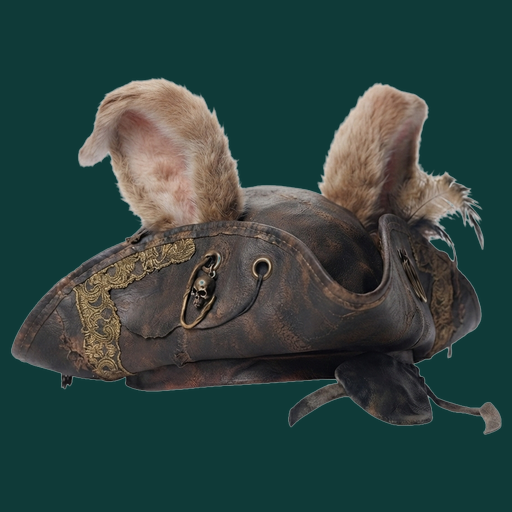
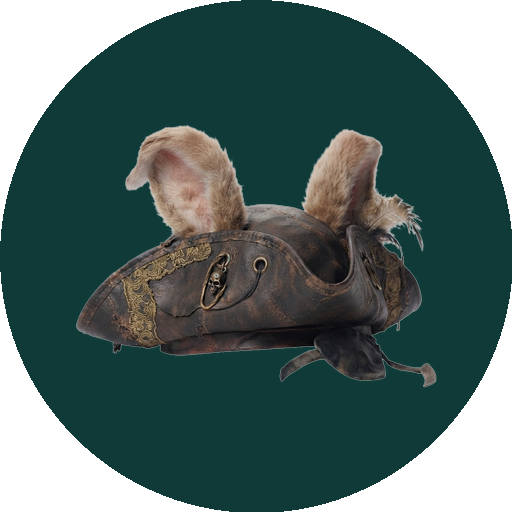
Reduce onboarding friction and clutter, add sail-era theming
- Auto-advance onboarding after picking an avatar instead of requiring
  a separate Continue tap; drop the redundant Male/Female labels
- Always land on the Logbook on a fresh app open (fixes reopening
  sometimes landing on the Add Habit modal, since state.screen was
  being persisted verbatim from the last session)
- Rewards screen now only ever shows the single next locked reward
  instead of the whole future chain, so a new user isn't greeted with
  a wall of "Monthly & Once-off Tasks" / "Bucket List Buccaneer" cards
  before they're anywhere close to relevant
- Re-theme the habit emoji picker to island/pirate/golden-age-of-sail
  icons (dropped the modern-ocean-liner emoji)
- Custom pirate-chest SVG icon for the Rewards tab (no chest emoji
  exists in Unicode)
- Circular app icon (icon-192/512) instead of square, to match how
  mobile home screens actually render installed PWA icons; documented
  as the pwa-install agent's new default for future apps

diff --git a/index.html b/index.html
@@ -13,7 +13,7 @@
      this tag or index_template.html. Recompute (sha256 of icon-192.png,
      first 8 hex chars) and bump this whenever icon-192.png's bytes change,
      or iPhone installs will keep showing a stale icon after an update. -->
-<link rel="apple-touch-icon" href="./icon-192.png?v=b5dea59f">
+<link rel="apple-touch-icon" href="./icon-192.png?v=8281ca5c">
 <meta name="theme-color" content="#0E3634">
 <meta name="apple-mobile-web-app-capable" content="yes">
 <meta name="apple-mobile-web-app-status-bar-style" content="black-translucent">
@@ -119,7 +119,6 @@ img{max-width:100%; display:block;}
 }
 .avatar-option img{width:128px; height:128px; border-radius:50%;}
 .avatar-option.selected{border-color:var(--gold); transform:translateY(-4px);}
-.avatar-option-label{color:var(--parchment-edge); font-size:.8rem; margin-top:6px; text-transform:uppercase; letter-spacing:.1em;}
 
 .field{width:100%; max-width:340px; text-align:left; margin:0 auto 16px;}
 .field label{display:block; color:var(--parchment-edge); font-size:.78rem; text-transform:uppercase; letter-spacing:.1em; margin-bottom:6px;}
@@ -382,7 +381,7 @@ img{max-width:100%; display:block;}
      never from wireEvents() (which re-runs on every render()). -->
 <nav class="bottombar hidden" id="bottombar">
   <button class="bottom-tab" data-nav="logbook"><span class="bt-icon">&#128214;</span><span class="bt-label">Logbook</span></button>
-  <button class="bottom-tab" data-nav="rewards"><span class="bt-icon">&#127942;</span><span class="bt-label">Rewards</span></button>
+  <button class="bottom-tab" data-nav="rewards"><span class="bt-icon"><svg viewBox="0 0 24 24" width="1.15em" height="1.15em" style="vertical-align:-2px" aria-hidden="true"><path d="M3 11 C3 6 6 4 12 4 C18 4 21 6 21 11 Z" fill="#6b4526" stroke="#3e2714" stroke-width="0.8"/><rect x="3" y="11" width="18" height="8" rx="1.5" fill="#6b4526" stroke="#3e2714" stroke-width="0.8"/><rect x="6.4" y="4" width="1.7" height="15" fill="#c6992f"/><rect x="15.9" y="4" width="1.7" height="15" fill="#c6992f"/><rect x="3" y="10.4" width="18" height="1.4" fill="#c6992f"/><rect x="10.1" y="9.2" width="3.8" height="4.4" rx="1" fill="#c6992f" stroke="#3e2714" stroke-width="0.5"/></svg></span><span class="bt-label">Rewards</span></button>
   <button class="bottom-tab" data-nav="profile-modal"><span class="bt-icon">&#128100;</span><span class="bt-label">Profile</span></button>
   <button class="bottom-tab" data-nav="backup"><span class="bt-icon">&#128190;</span><span class="bt-label">Backup</span></button>
 </nav>
@@ -405,7 +404,7 @@ var STORAGE_KEY = "rhabbits_state_v1";
 // confirmed against what was actually deployed. Distinct from any
 // data-schema/localStorage version (this app has none yet).
 var APP_VERSION = "1.0.0";
-var EMOJI_CHOICES = ["🌱","💧","🏃","🧘","📚","🛌","🦷","🥗","🧹","✍","🙏","🎯","🧭","⚓","🦜"];
+var EMOJI_CHOICES = ["🌱","🌴","☀","🌊","🥥","🥕","⛵","🏴☠","🧭","⚓","🦜","🐚","🌙","🗺","🏝"];
 
 var REWARDS = [
   {
@@ -530,6 +529,11 @@ function load(){
 function save(){ localStorage.setItem(STORAGE_KEY, JSON.stringify(state)); }
 
 var state = load();
+// Every fresh app open (icon tap, browser relaunch) lands on the Logbook --
+// that's the default view -- regardless of whatever screen/modal was open
+// when the user last left. Mid-session bottom-nav taps to Rewards/Profile
+// still work as normal; this only resets the *boot* screen.
+state.screen = "logbook";
 
 function evaluateRewards(){
   if(!state.onboarded) return;
@@ -574,16 +578,14 @@ function renderOnboarding(){
     );
   }
   if(step===1){
-    var m = state.avatar==="male", f = state.avatar==="female";
     return (
       '<div class="onb-screen">' +
         '<h2 style="color:var(--parchment-hi)">Choose your rHabbit</h2>' +
-        '<p class="onb-copy">This becomes your castaway — and your icon in the app.</p>' +
+        '<p class="onb-copy">This becomes your castaway — and your icon in the app. (You can switch later in Profile.)</p>' +
         '<div class="avatar-choice">' +
-          '<div><button class="avatar-option '+(m?'selected':'')+'" data-action="pick-avatar" data-gender="male"><img src="'+ASSET.avatar_male+'" alt="Male rHabbit"></button><div class="avatar-option-label">Male</div></div>' +
-          '<div><button class="avatar-option '+(f?'selected':'')+'" data-action="pick-avatar" data-gender="female"><img src="'+ASSET.avatar_female+'" alt="Female rHabbit"></button><div class="avatar-option-label">Female</div></div>' +
+          '<button class="avatar-option" data-action="pick-avatar" data-gender="male"><img src="'+ASSET.avatar_male+'" alt="Male rHabbit"></button>' +
+          '<button class="avatar-option" data-action="pick-avatar" data-gender="female"><img src="'+ASSET.avatar_female+'" alt="Female rHabbit"></button>' +
         '</div>' +
-        '<button class="btn mt" data-action="onb-next" '+(state.avatar?'':'disabled')+'>Continue</button>' +
       '</div>'
     );
   }
@@ -751,7 +753,14 @@ function renderRewardsScreen(){
   html += '<h2 style="color:var(--parchment-hi); margin-bottom:4px;">Your Rewards</h2>';
   html += '<p style="color:var(--parchment-edge); font-size:.85rem; margin-bottom:16px;">A growing collection from life on the island. More rewards to come!</p>';
   html += '<div class="reward-grid">';
-  REWARDS.forEach(function(r){
+  // Only ever show ONE locked card at a time -- the single next reward the
+  // user is working toward -- rather than the whole future chain. Seeing
+  // "Monthly & Once-off Tasks" or "Bucket List Buccaneer" as locked cards on
+  // day one is just clutter/overwhelm before they're even relevant; each one
+  // appears in turn as the prior reward is earned.
+  var next = nextLockedReward();
+  var visible = REWARDS.filter(function(r){ return !!state.unlocks[r.id] || (next && r.id===next.id); });
+  visible.forEach(function(r){
     var unlocked = !!state.unlocks[r.id];
     html += '<div class="reward-card '+(unlocked?'':'locked')+'">';
     html += '<div class="reward-media">';
@@ -962,7 +971,7 @@ function onAction(e){
       break;
     case "pick-avatar":
       state.avatar = el.getAttribute("data-gender");
-      render();
+      navigateTo(function(){ state.onbStep++; });
       break;
     case "pick-emoji":
       state._draft.emoji = el.getAttribute("data-emoji");

diff --git a/scripts/index_template.html b/scripts/index_template.html
@@ -13,7 +13,7 @@
      this tag or index_template.html. Recompute (sha256 of icon-192.png,
      first 8 hex chars) and bump this whenever icon-192.png's bytes change,
      or iPhone installs will keep showing a stale icon after an update. -->
-<link rel="apple-touch-icon" href="./icon-192.png?v=b5dea59f">
+<link rel="apple-touch-icon" href="./icon-192.png?v=8281ca5c">
 <meta name="theme-color" content="#0E3634">
 <meta name="apple-mobile-web-app-capable" content="yes">
 <meta name="apple-mobile-web-app-status-bar-style" content="black-translucent">
@@ -119,7 +119,6 @@ img{max-width:100%; display:block;}
 }
 .avatar-option img{width:128px; height:128px; border-radius:50%;}
 .avatar-option.selected{border-color:var(--gold); transform:translateY(-4px);}
-.avatar-option-label{color:var(--parchment-edge); font-size:.8rem; margin-top:6px; text-transform:uppercase; letter-spacing:.1em;}
 
 .field{width:100%; max-width:340px; text-align:left; margin:0 auto 16px;}
 .field label{display:block; color:var(--parchment-edge); font-size:.78rem; text-transform:uppercase; letter-spacing:.1em; margin-bottom:6px;}
@@ -382,7 +381,7 @@ img{max-width:100%; display:block;}
      never from wireEvents() (which re-runs on every render()). -->
 <nav class="bottombar hidden" id="bottombar">
   <button class="bottom-tab" data-nav="logbook"><span class="bt-icon">&#128214;</span><span class="bt-label">Logbook</span></button>
-  <button class="bottom-tab" data-nav="rewards"><span class="bt-icon">&#127942;</span><span class="bt-label">Rewards</span></button>
+  <button class="bottom-tab" data-nav="rewards"><span class="bt-icon"><svg viewBox="0 0 24 24" width="1.15em" height="1.15em" style="vertical-align:-2px" aria-hidden="true"><path d="M3 11 C3 6 6 4 12 4 C18 4 21 6 21 11 Z" fill="#6b4526" stroke="#3e2714" stroke-width="0.8"/><rect x="3" y="11" width="18" height="8" rx="1.5" fill="#6b4526" stroke="#3e2714" stroke-width="0.8"/><rect x="6.4" y="4" width="1.7" height="15" fill="#c6992f"/><rect x="15.9" y="4" width="1.7" height="15" fill="#c6992f"/><rect x="3" y="10.4" width="18" height="1.4" fill="#c6992f"/><rect x="10.1" y="9.2" width="3.8" height="4.4" rx="1" fill="#c6992f" stroke="#3e2714" stroke-width="0.5"/></svg></span><span class="bt-label">Rewards</span></button>
   <button class="bottom-tab" data-nav="profile-modal"><span class="bt-icon">&#128100;</span><span class="bt-label">Profile</span></button>
   <button class="bottom-tab" data-nav="backup"><span class="bt-icon">&#128190;</span><span class="bt-label">Backup</span></button>
 </nav>
@@ -405,7 +404,7 @@ var STORAGE_KEY = "rhabbits_state_v1";
 // confirmed against what was actually deployed. Distinct from any
 // data-schema/localStorage version (this app has none yet).
 var APP_VERSION = "1.0.0";
-var EMOJI_CHOICES = ["🌱","💧","🏃","🧘","📚","🛌","🦷","🥗","🧹","✍","🙏","🎯","🧭","⚓","🦜"];
+var EMOJI_CHOICES = ["🌱","🌴","☀","🌊","🥥","🥕","⛵","🏴☠","🧭","⚓","🦜","🐚","🌙","🗺","🏝"];
 
 var REWARDS = [
   {
@@ -530,6 +529,11 @@ function load(){
 function save(){ localStorage.setItem(STORAGE_KEY, JSON.stringify(state)); }
 
 var state = load();
+// Every fresh app open (icon tap, browser relaunch) lands on the Logbook --
+// that's the default view -- regardless of whatever screen/modal was open
+// when the user last left. Mid-session bottom-nav taps to Rewards/Profile
+// still work as normal; this only resets the *boot* screen.
+state.screen = "logbook";
 
 function evaluateRewards(){
   if(!state.onboarded) return;
@@ -574,16 +578,14 @@ function renderOnboarding(){
     );
   }
   if(step===1){
-    var m = state.avatar==="male", f = state.avatar==="female";
     return (
       '<div class="onb-screen">' +
         '<h2 style="color:var(--parchment-hi)">Choose your rHabbit</h2>' +
-        '<p class="onb-copy">This becomes your castaway — and your icon in the app.</p>' +
+        '<p class="onb-copy">This becomes your castaway — and your icon in the app. (You can switch later in Profile.)</p>' +
         '<div class="avatar-choice">' +
-          '<div><button class="avatar-option '+(m?'selected':'')+'" data-action="pick-avatar" data-gender="male"><img src="'+ASSET.avatar_male+'" alt="Male rHabbit"></button><div class="avatar-option-label">Male</div></div>' +
-          '<div><button class="avatar-option '+(f?'selected':'')+'" data-action="pick-avatar" data-gender="female"><img src="'+ASSET.avatar_female+'" alt="Female rHabbit"></button><div class="avatar-option-label">Female</div></div>' +
+          '<button class="avatar-option" data-action="pick-avatar" data-gender="male"><img src="'+ASSET.avatar_male+'" alt="Male rHabbit"></button>' +
+          '<button class="avatar-option" data-action="pick-avatar" data-gender="female"><img src="'+ASSET.avatar_female+'" alt="Female rHabbit"></button>' +
         '</div>' +
-        '<button class="btn mt" data-action="onb-next" '+(state.avatar?'':'disabled')+'>Continue</button>' +
       '</div>'
     );
   }
@@ -751,7 +753,14 @@ function renderRewardsScreen(){
   html += '<h2 style="color:var(--parchment-hi); margin-bottom:4px;">Your Rewards</h2>';
   html += '<p style="color:var(--parchment-edge); font-size:.85rem; margin-bottom:16px;">A growing collection from life on the island. More rewards to come!</p>';
   html += '<div class="reward-grid">';
-  REWARDS.forEach(function(r){
+  // Only ever show ONE locked card at a time -- the single next reward the
+  // user is working toward -- rather than the whole future chain. Seeing
+  // "Monthly & Once-off Tasks" or "Bucket List Buccaneer" as locked cards on
+  // day one is just clutter/overwhelm before they're even relevant; each one
+  // appears in turn as the prior reward is earned.
+  var next = nextLockedReward();
+  var visible = REWARDS.filter(function(r){ return !!state.unlocks[r.id] || (next && r.id===next.id); });
+  visible.forEach(function(r){
     var unlocked = !!state.unlocks[r.id];
     html += '<div class="reward-card '+(unlocked?'':'locked')+'">';
     html += '<div class="reward-media">';
@@ -962,7 +971,7 @@ function onAction(e){
       break;
     case "pick-avatar":
       state.avatar = el.getAttribute("data-gender");
-      render();
+      navigateTo(function(){ state.onbStep++; });
       break;
     case "pick-emoji":
       state._draft.emoji = el.getAttribute("data-emoji");
